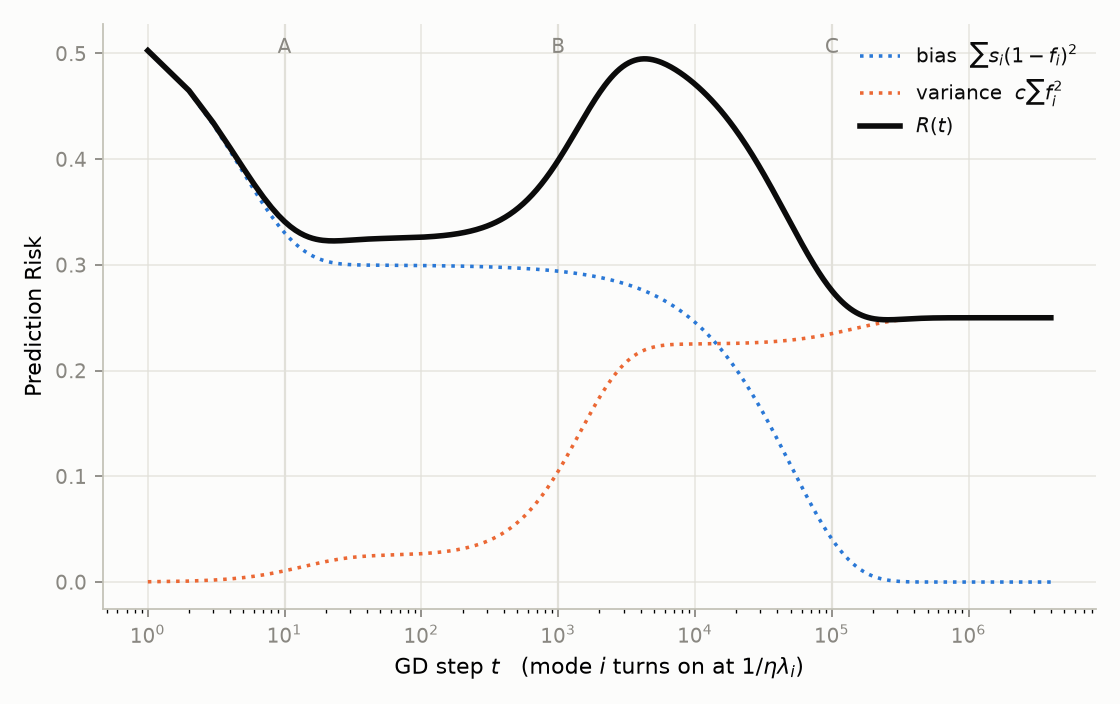
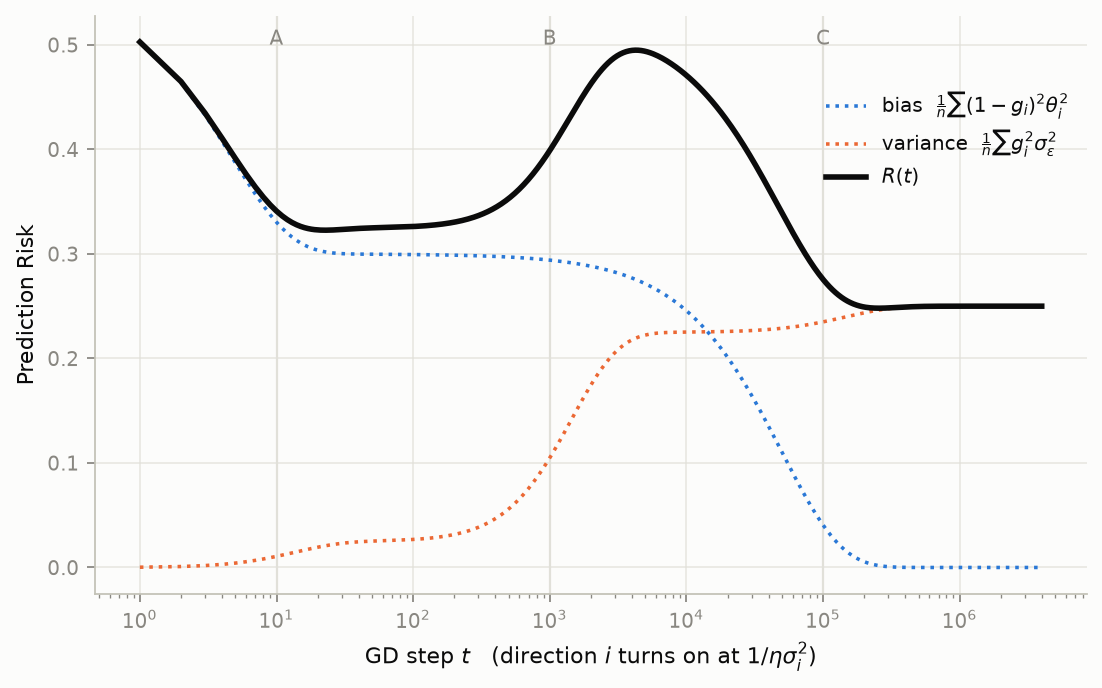
Update epoch-wise double descent blog post

diff --git a/_posts/2026-07-21-epoch-wise-double-descent-in-ols.md b/_posts/2026-07-21-epoch-wise-double-descent-in-ols.md
@@ -13,101 +13,64 @@ This post looks at double descent through that lens. The surprising part is that
 
 ## Setup
 
-Fix a design matrix $X \in \mathbb{R}^{n\times p}$ and write its SVD as
+Take the linear model $y = X\beta^\star + \varepsilon$, with $\mathbb{E}[\varepsilon] = 0$, $\operatorname{Cov}(\varepsilon) = \sigma_\varepsilon^2 I$, and the thin SVD
 
 $$
-X = \sqrt{n}\,U\,\Lambda^{1/2}V^\top,
-\qquad U^\top U = I_p,\qquad \Lambda = \operatorname{diag}(\lambda_1 \ge \dots \ge \lambda_p),
+X = U\Sigma V^\top, \qquad \Sigma = \operatorname{diag}(\sigma_1, \dots, \sigma_p), \quad \sigma_1 \ge \dots \ge \sigma_p > 0.
 $$
 
-so the empirical second moment is exactly
+Here $V$ is a generic rotation, so $X$ has correlated, non-orthogonal columns—nothing is diagonal in the coordinate basis. Everything below is diagonal in $U$ instead.
+
+## Gradient descent is a spectral filter
+
+Run GD on $\tfrac12\|y - X\beta\|^2$ from $\beta^{(0)} = 0$ with step $\eta$. In the $U$ basis the iteration decouples, and the fitted values after $t$ steps are
 
 $$
-\hat\Sigma \;=\; \frac{X^\top X}{n} \;=\; V\Lambda V^\top \;=:\; \Sigma .
-$$
-
-Here, $V$ is a fixed rotation, meaning $X$ has correlated, non-orthogonal columns—nothing is diagonal in the coordinate basis. Data and test points are defined as:
-
-$$
-y = Xw^* + \varepsilon,\quad \varepsilon\sim\mathcal N(0,\sigma^2 I_n),
-\qquad x_{\text{test}} \sim \mathcal N(0,\Sigma).
-$$
-
-**Risk.** Excess squared error on a fresh point is
-
-$$
-R(w) \;=\; \mathbb E_x\big(x^\top w - x^\top w^*\big)^2
-\;=\; (w-w^*)^\top\Sigma\,(w-w^*)
-\;=\; \lVert w-w^*\rVert_\Sigma^2 .
-$$
-
-The $\Sigma$ subscript captures the entire difference between prediction risk and estimation error. Since $\Sigma = V\Lambda V^\top$, it is diagonalized in the eigenbasis $\{v_i\}$. Writing $d_i = v_i^\top(w-w^*)$, we get $R(w)=\sum_i \lambda_i d_i^2$. That is the sole structural fact used below.
-
-## Gradient descent has a closed form
-
-Performing GD on the objective $L(w)=\frac{1}{2n}\lVert Xw-y\rVert^2$ starting from $w_0=0$ with step size $\eta$:
-
-$$
-w_{t+1} \;=\; w_t - \eta\big(\Sigma w_t - X^\top y/n\big).
-$$
-
-Projecting onto $v_i$, and letting $a_i := v_i^\top w^*$ and $g_i := v_i^\top X^\top\varepsilon/n$, the coordinates decouple completely:
-
-$$
-v_i^\top w_t \;=\; f_i(t)\Big[a_i + \frac{g_i}{\lambda_i}\Big],
+\hat y^{(t)} = U\, g_t(\Sigma^2)\, U^\top y,
 \qquad
-\boxed{\,f_i(t) = 1-(1-\eta\lambda_i)^t\,}
+g_t(\sigma^2) = 1-(1-\eta\sigma^2)^t
 $$
 
-The term $f_i$ acts as a low-pass filter over the spectrum: **mode $i$ turns on at $t \sim 1/(\eta\lambda_i)$.** Stability requires $\eta < 2/\lambda_{\max}$. (Equivalently, GD at step $t$ behaves like ridge regression with an effective regularization $\lambda_{\text{eff}}\sim 1/(\eta t)$.)
+The filter $g_t$ climbs from $0$ to $1$ in each direction, fastest at the top of the spectrum: **direction $i$ turns on at $t \sim 1/(\eta\sigma_i^2)$.** Stability requires $\eta < 2/\sigma_1^2$. (Equivalently, GD at step $t$ behaves like ridge regression with $\lambda \sim 1/(\eta t)$.)
 
-## The risk, in two pieces
+## Deriving the Risk of Gradient Descent
 
-Since $\mathbb E[g_i]=0$ and $\mathbb E[g_i^2]=\sigma^2\lambda_i/n$, a bit of algebra lets us split the risk into bias and variance:
-
-$$
-R(t) \;=\; \underbrace{\sum_i \lambda_i a_i^2\,(1-f_i)^2}_{\text{bias},\ \downarrow}
-\;+\; \underbrace{\frac{\sigma^2}{n}\sum_i f_i^2}_{\text{variance},\ \uparrow}
-$$
-
-Defining the **signal energy** of a mode and the **noise price** as:
+Take in-sample prediction risk against the noiseless signal. With $\theta_i = u_i^\top X\beta^\star$ the signal along $u_i$, the risk splits into independent per-direction terms (appendix):
 
 $$
-s_i := \lambda_i a_i^2, \qquad c := \frac{\sigma^2}{n},
-\qquad\text{we can rewrite}\qquad
-R(t) = \sum_i\Big[s_i(1-f_i)^2 + c\,f_i^2\Big].
+R(t) = \frac1n\,\mathbb{E}\big\|\hat y^{(t)} - X\beta^\star\big\|^2 = \frac1n\sum_i \Big[\underbrace{(1-g_t(\sigma_i^2))^2\,\theta_i^2}_{\text{bias}^2,\ \downarrow} + \underbrace{g_t(\sigma_i^2)^2\,\sigma_\varepsilon^2}_{\text{variance},\ \uparrow}\Big].
 $$
 
 At the extremes:
 
 $$
-R(0) = \sum_i s_i, \qquad R(\infty) = \frac{p\,\sigma^2}{n}.
+R(0) = \frac1n\sum_i \theta_i^2, \qquad R(\infty) = \frac{p\,\sigma_\varepsilon^2}{n}.
 $$
 
-Both pieces are monotone in $t$. Therefore, the shape of the risk curve is determined entirely by the *order* in which the modes switch on.
+Both pieces are monotone in $t$. Therefore, the shape of the risk curve is determined entirely by the *order* in which the directions switch on.
 
-As the number of training rounds increases, the filter $f_i$ approaches 1 for modes ordered from largest to smallest eigenvalues. As each mode turns on, the risk shifts from signal energy $s_i$ to noise price $c$, producing a net change of:
+As the number of training rounds increases, the filter $g_t$ approaches 1 for directions ordered from largest to smallest singular values. As each direction turns on, its contribution to the risk shifts from signal $\theta_i^2$ to noise $\sigma_\varepsilon^2$, producing a net change of:
 
 $$
-\Delta_i \;=\; c - s_i \;=\; \frac{\sigma^2}{n} - \lambda_i a_i^2 .
+\Delta_i \;=\; \frac{\sigma_\varepsilon^2 - \theta_i^2}{n}.
 $$
 
-Therefore, $R(t)$ is simply a running cumulative sum of $\Delta_i$ walked down the spectrum. Double descent is nothing more than traversing regions of the spectrum where the signal energy alternates between exceeding and falling below the noise price.  In other words, each eigendirection is either worth learning ($s_i > c$) or not ($s_i < c$). Gradient descent simply decides *when* each of those bets gets placed.
+Therefore, $R(t)$ is simply a running cumulative sum of $\Delta_i$ walked down the spectrum. Double descent is nothing more than traversing regions of the spectrum where the signal alternates between exceeding and falling below the noise level. In other words, each eigendirection is either worth learning ($\theta_i^2 > \sigma_\varepsilon^2$) or not ($\theta_i^2 < \sigma_\varepsilon^2$). Gradient descent simply decides *when* each of those bets gets placed.
 
 ## A minimal example
 
 To see this numerically, we can construct an example where the spectrum is divided into three distinct regions (A, B, and C):
 * **Block A:** Clear, fast signal.
 * **Block B:** Pure noise—400 directions with zero signal, representing pure noise-fitting.
-* **Block C:** A slow direction carrying a large coefficient ($a^2 = 60$), separated by eigenvalue ratios of $100\times$ to prevent phase overlap.
+* **Block C:** A slow block carrying strong signal, separated by $100\times$ gaps in $\sigma^2$ to prevent phase overlap.
 
-Using three blocks with $n = 2000$, $\sigma^2 = 1$, and $c = 5\times10^{-4}$:
+Using three blocks with $n = 2000$, $\sigma_\varepsilon^2 = 1$, and $\eta = 0.1/\sigma_1^2$:
 
-| block | $k$ | $\lambda$ | $a^2$ | $s=\lambda a^2$ | $s/c$ | $\sum\Delta$ | turns on |
-|---|---|---|---|---|---|---|---|
-| A | 50 | $1$ | $0.005$ | $10c$ | $10$ | $-0.225$ | $t\approx 10$ |
-| B | 400 | $10^{-2}$ | $0$ | $0$ | $0$ | $+0.200$ | $t\approx 10^{3}$ |
-| C | 50 | $10^{-4}$ | $60$ | $12c$ | $12$ | $-0.275$ | $t\approx 10^{5}$ |
+| block | $k$ | $\sigma^2$ | $\theta^2/\sigma_\varepsilon^2$ | $\sum\Delta$ | turns on |
+|---|---|---|---|---|---|
+| A | 50 | $2000$ | $10$ | $-0.225$ | $t\approx 10$ |
+| B | 400 | $20$ | $0$ | $+0.200$ | $t\approx 10^{3}$ |
+| C | 50 | $0.2$ | $12$ | $-0.275$ | $t\approx 10^{5}$ |
 
 Individually, bias and variance behave exactly as expected: more rounds of GD reduce bias and increase variance. However, their interaction creates a funky double-descent shape.
 
@@ -120,3 +83,23 @@ Modern statistical learning increasingly treats the optimizer as a first-class c
 In spectral coordinates this becomes almost unavoidable. OLS, Ridge, PCR, early-stopped gradient descent, momentum methods, and many other algorithms are all spectral estimators: they differ only in the filters they apply across the eigenspectrum. Which estimator is "best" therefore depends not on some abstract notion of complexity, but on how the signal is distributed over that spectrum.
 
 Thinking this way also changes how I view the bias-variance tradeoff. Complexity is not just about reducing bias. Different optimization procedures reveal different spectral modes at different rates, and the resulting risk depends on whether those modes carry signal or only noise. From that perspective, double descent is not a mysterious exception to the classical story—it is simply one of the natural behaviors that emerge when learning unfolds spectrally
+
+---
+
+## Appendix: derivations
+
+### Risk decomposition
+
+Let $z_i = u_i^\top\varepsilon$, so $\mathbb{E}[z_i] = 0$ and $\operatorname{Var}(z_i) = \sigma_\varepsilon^2$. The data along $u_i$ is $u_i^\top y = \theta_i + z_i$, the fit keeps $g_i(\theta_i + z_i)$ with $g_i = g_t(\sigma_i^2)$, and the target is $\theta_i$. Since $U$ is orthonormal and $X\beta^\star$ lies in its span,
+
+$$
+R(t) = \frac1n\sum_i \mathbb{E}\big[g_i(\theta_i + z_i) - \theta_i\big]^2.
+$$
+
+Split each error into a deterministic and a mean-zero part:
+
+$$
+g_i(\theta_i + z_i) - \theta_i = (g_i - 1)\theta_i + g_i z_i.
+$$
+
+The cross term vanishes since $\mathbb{E}[z_i] = 0$, leaving $(1-g_i)^2\theta_i^2 + g_i^2\sigma_\varepsilon^2$ per direction. At $t = 0$ every $g_i = 0$; as $t \to \infty$ every $g_i \to 1$, which gives the two extremes $R(0)$ and $R(\infty)$.
